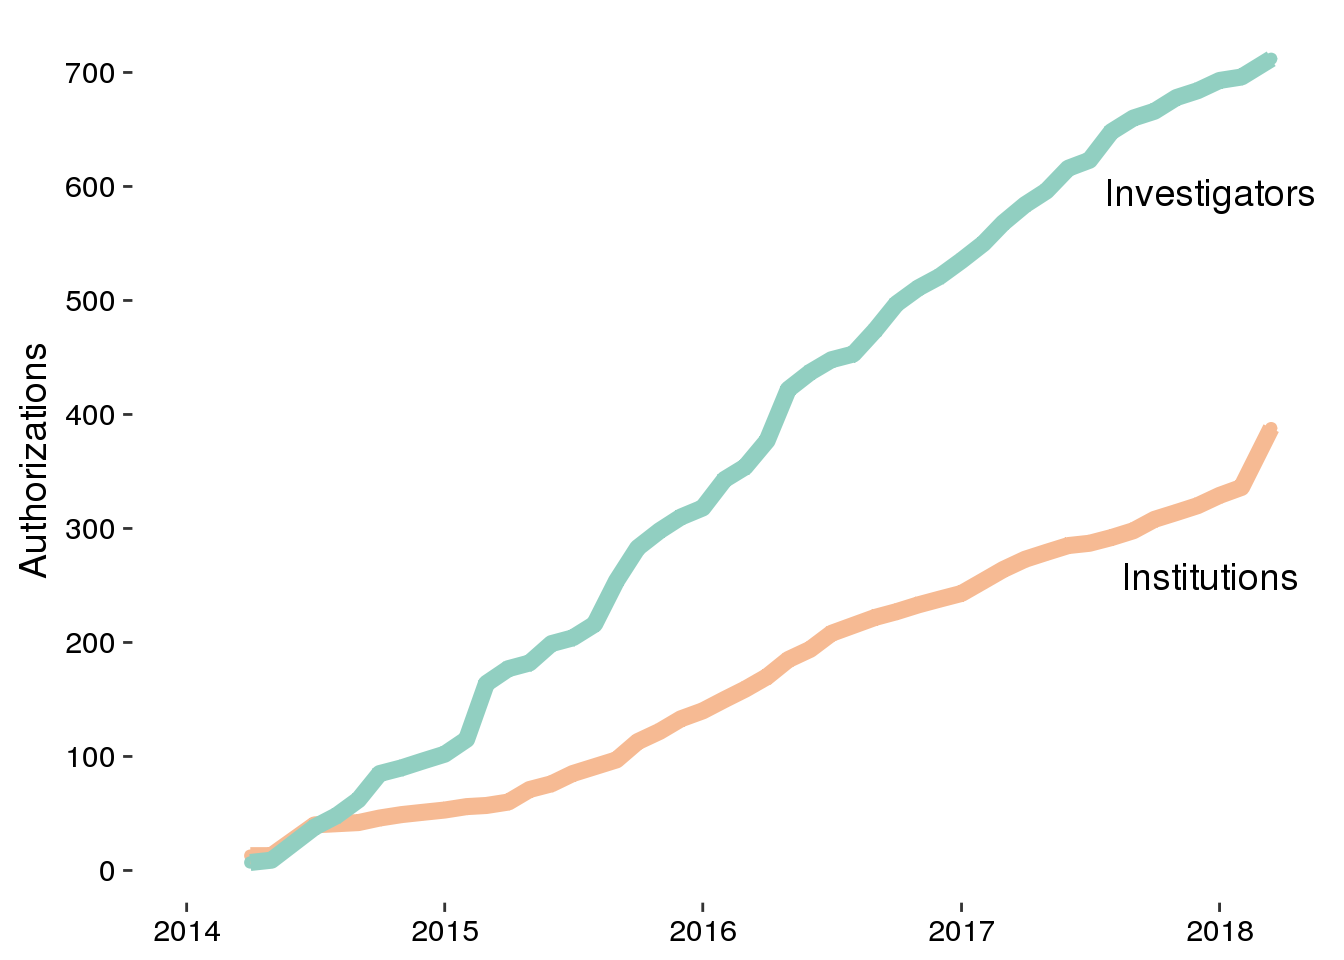
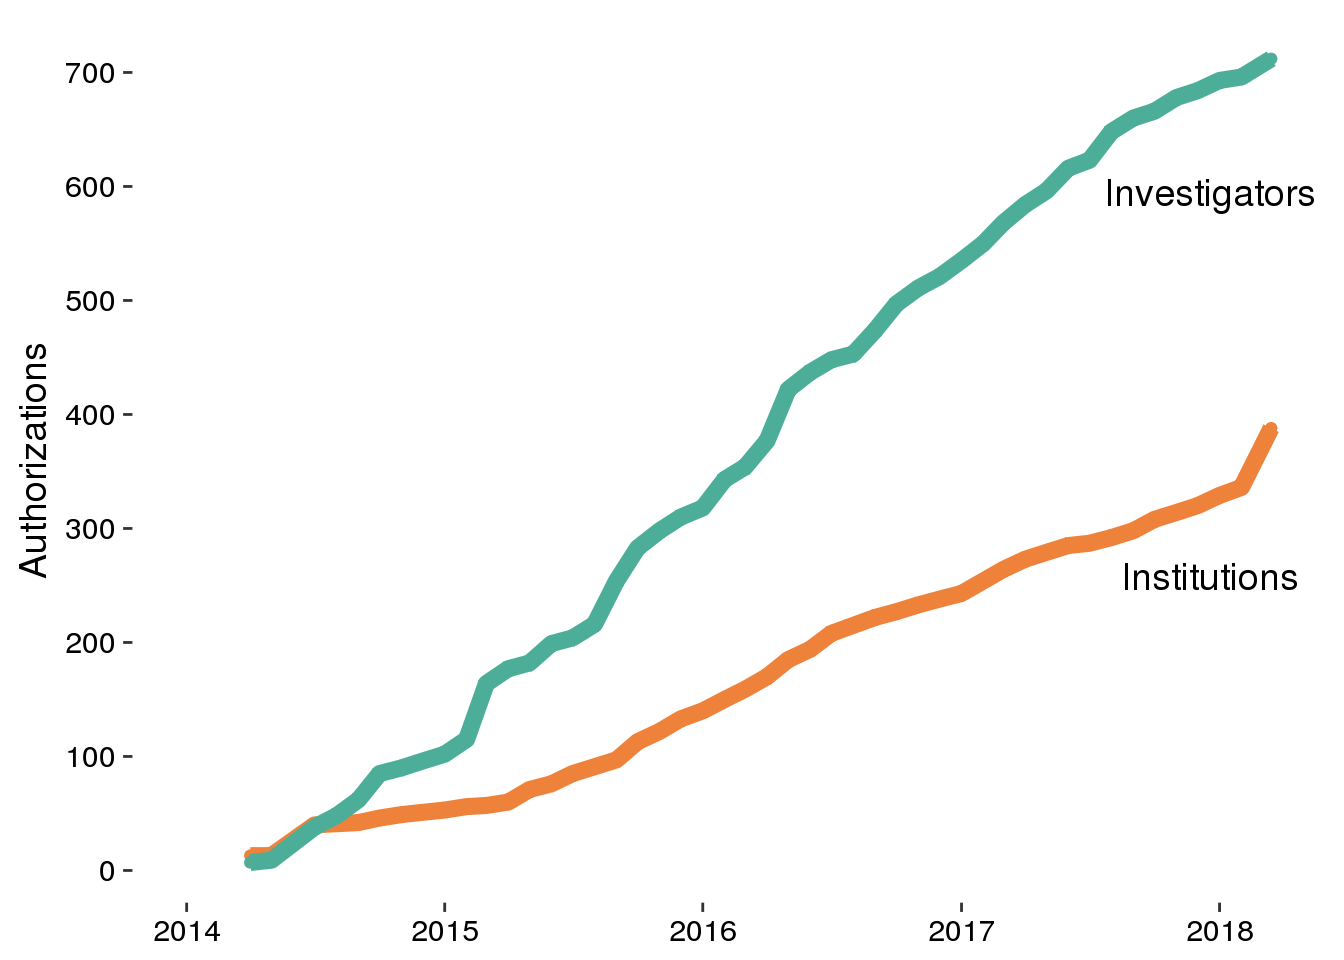
change plot colors

diff --git a/databrary-user-growth.html b/databrary-user-growth.html
@@ -235,7 +235,7 @@ div.tocify {
 
 <h1 class="title toc-ignore">databrary-user-growth</h1>
 <h4 class="author"><em>Andrea R. Seisler</em></h4>
-<h4 class="date"><em>2018-03-16 11:23:54</em></h4>
+<h4 class="date"><em>2018-03-16 11:31:20</em></h4>
 
 </div>
 
@@ -294,7 +294,7 @@ p &lt;-
   geom_point() + 
   geom_line(size=3) +
   theme_classic(base_size = 14) +                        #Axis Label Size
-  scale_colour_manual(values=c(&quot;#f6ba93&quot;, &quot;#91CFC1&quot;)) +  #Saturated Databrary Colors 
+  scale_colour_manual(values=c(&quot;#EE823A&quot;, &quot;#4CAE99&quot;)) +  #Saturated Databrary Colors 
   ylab(&quot;Authorizations&quot;) +
   #xlab(&quot;Year&quot;) +
   #labs(title=&quot;Databrary User Growth&quot;) +
